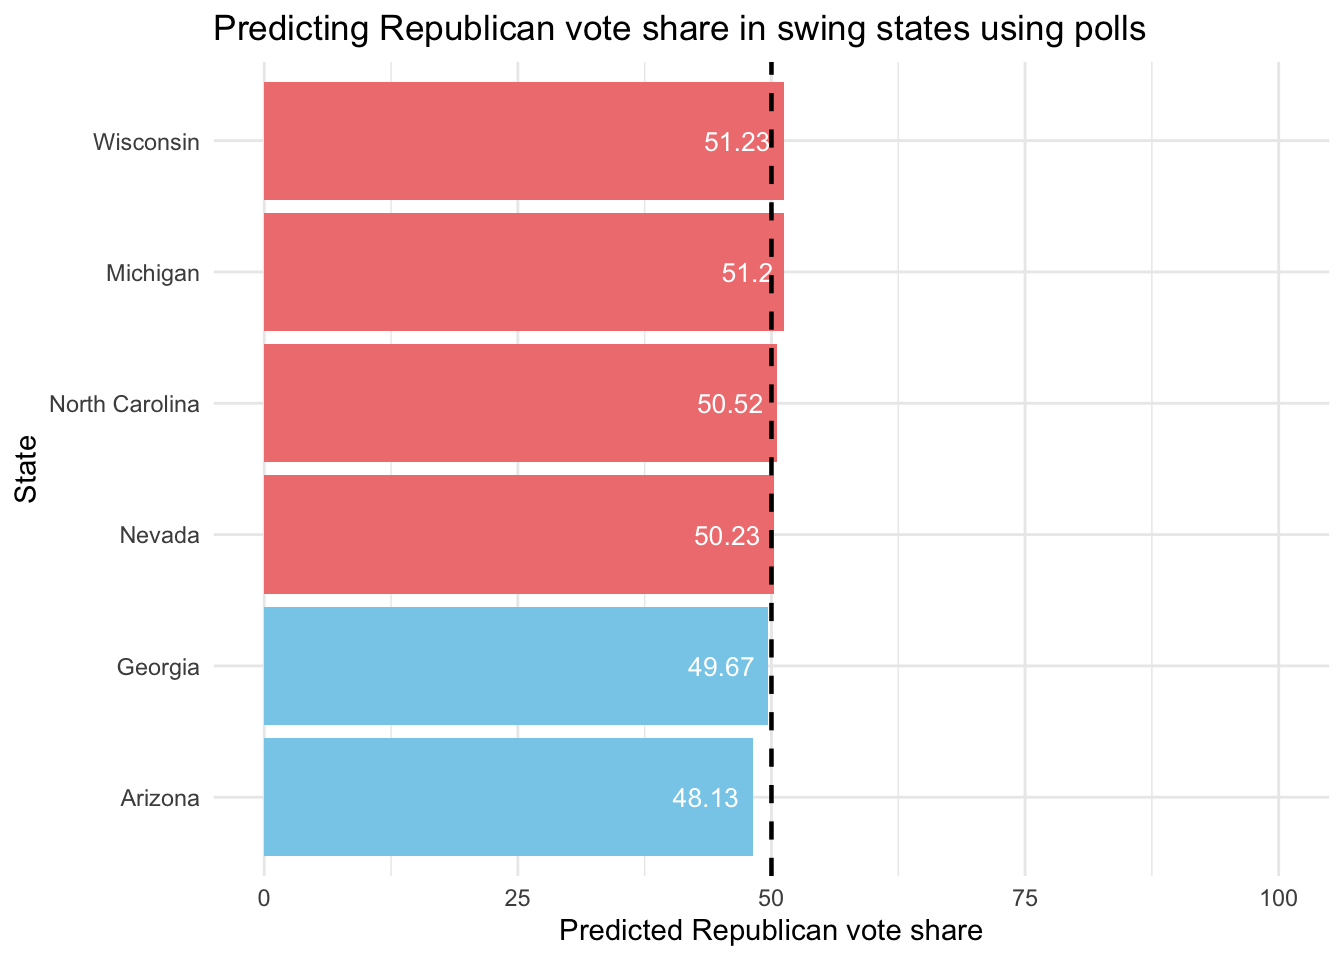
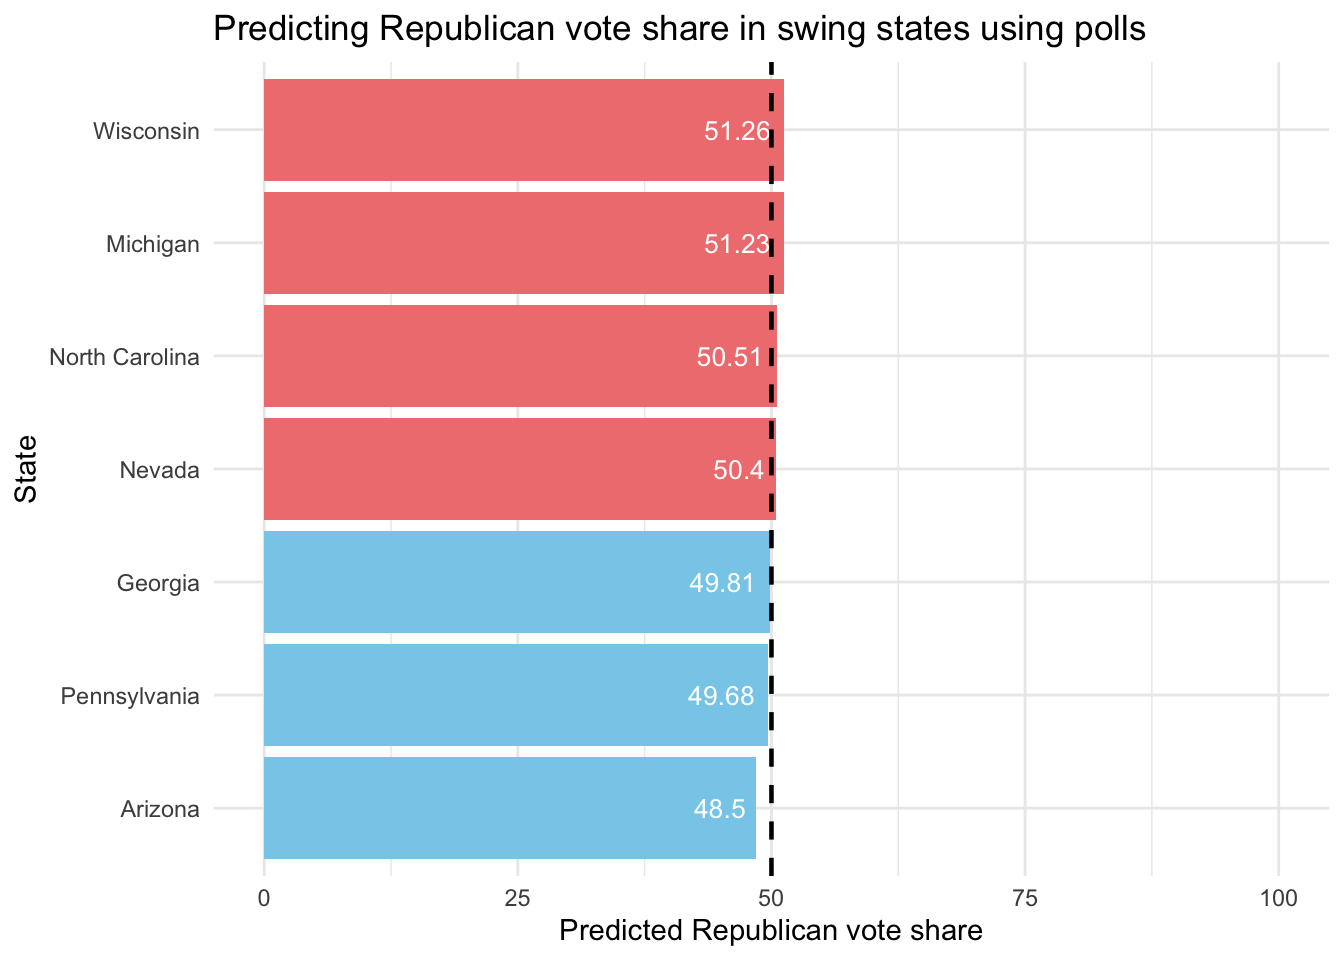
manual rebuild blogdown

diff --git a/public/post/2024/09/11/week-2/index.html b/public/post/2024/09/11/week-2/index.html
@@ -1,6 +1,6 @@
 <!DOCTYPE html>
 <html lang="en-us">
-  <head><script src="/usa-2024-election-prediction/livereload.js?mindelay=10&amp;v=2&amp;port=4321&amp;path=usa-2024-election-prediction/livereload" data-no-instant defer></script>
+  <head>
     <meta charset="utf-8">
     <meta name="viewport" content="width=device-width, initial-scale=1">
     <title>How economy influences elections | Jay&#39;s 2024 Election Prediction</title>
@@ -28,7 +28,7 @@
 <main>
 <p>The code for this page can be found <a href="https://github.com/jeqcho/usa-2024-election-prediction/blob/main/content/post/2024-09-11-week-2/index.Rmd">here</a>.</p>
 <p>One measure of the economy is the GDP growth. But do voters care more about the short-term GDP growth in the months leading up to the election, or do they judge the candidate based on the GDP growth <strong>throughout</strong> their term? We first investigate the Q2 GDP growth, which is by how much did the GDP grow in the second quarter (April, May, June) in the year of the election.</p>
-<img src="/usa-2024-election-prediction/post/2024/09/11/week-2/index_files/figure-html/unnamed-chunk-2-1.png" width="672" />
+<img src="https://chojeq.com/usa-2024-election-prediction/post/2024/09/11/week-2/index_files/figure-html/unnamed-chunk-2-1.png" width="672" />
 <p>In our best-fit lines above, we have removed 2020 as an outlier. The plot shows that there is a strong positive correlation between second quarter GDP growth and the incumbent&rsquo;s party vote share, particularly so when the candidate is also incumbent! This is fair, since the voters might not judge a new non-incumbent candidate with the current economy. Another interesting feature is that the best-fit line almost cross the center of 50% vote share for 0% growth. This suggests that the voters only reward the incumbent with more votes if the economy grows, and punishes when not, with no established baseline that the president is expected to perform. Let&rsquo;s look at the \(R^2\) to get an idea of how powerful is the prediction. Here&rsquo;s the \(R^2\) for non-incumbent candidates.</p>
 <pre><code class="language-r">summary(lm(pv2p~GDP_growth_quarterly,
            data=(d_inc_econ|&gt;filter(incumbent==FALSE))
@@ -44,7 +44,7 @@
 <pre><code>## [1] 0.4373633
 </code></pre>
 <p>It turns out that second quarter GDP growth can explain up to 44% of the change in vote shares across time! Now, how about long term GDP growth? Instead of looking at the GDP growth during the election year, let&rsquo;s compare the GDP growth from the start of their term to the end of the term.</p>
-<img src="/usa-2024-election-prediction/post/2024/09/11/week-2/index_files/figure-html/unnamed-chunk-5-1.png" width="672" />
+<img src="https://chojeq.com/usa-2024-election-prediction/post/2024/09/11/week-2/index_files/figure-html/unnamed-chunk-5-1.png" width="672" />
 <p>Here&rsquo;s the \(R^2\) for non-incumbents.</p>
 <pre><code class="language-r">summary(lm(pv2p~GDP_growth_termly,
            data=(d_inc_econ|&gt;filter(incumbent==FALSE))
@@ -61,7 +61,7 @@
 </code></pre>
 <p>Interestingly, the effect on non-incumbent candidates essentially flattens out. Voters do not judge new candidates based on how well the economy performed over the years. For incumbent candidates, we still see a strong positive correlation, but the explanatory power decreases from 44 to 29. This suggests that the short-term national economy has more influence on elections that the long-term trajectory. Another interesting feature is that the best-fit line crosses the 50% mark when the GDP growth is 29.6%. This means that in contrast to the second-quarter GDP growth, the voters impose a baseline performance for the president to sustain the growth of the economy.</p>
 <p>How about other measures of the economy like unemployment rate? Here we took seasonally-adjusted unemployment rate for each state and see if the vote share of the incumbet party in each state changes in response to the unemployment rate.</p>
-<img src="/usa-2024-election-prediction/post/2024/09/11/week-2/index_files/figure-html/unnamed-chunk-8-1.png" width="672" />
+<img src="https://chojeq.com/usa-2024-election-prediction/post/2024/09/11/week-2/index_files/figure-html/unnamed-chunk-8-1.png" width="672" />
 <p>Here&rsquo;s the \(R^2\) for non-incumbents.</p>
 <pre><code class="language-r">summary(lm(pv2p~q2_unrate_growth,
            data=(d_unrate_enc|&gt;filter(incumbent==FALSE))
@@ -78,7 +78,7 @@
 </code></pre>
 <p>The flat line and low <code>\(R^2\)</code> in both cases suggest that unemployment rate does not have a huge say on who becomes president. This suggest that voters do not associate employment with the president, since they might see more as a personal matter.</p>
 <p>Let&rsquo;s put all the economic indicators we have into a machine learning model and see which indicators are most effective in predicting the national vote share. We build a random forest model with 100 trees and look at the importance plot which shows how good each indicator is in predicting vote share.</p>
-<img src="/usa-2024-election-prediction/post/2024/09/11/week-2/index_files/figure-html/unnamed-chunk-15-1.png" width="672" />
+<img src="https://chojeq.com/usa-2024-election-prediction/post/2024/09/11/week-2/index_files/figure-html/unnamed-chunk-15-1.png" width="672" />
 <p>The random forest confirms our hypothesis and crowns the second quarter GDP growth as the strongest economic predictor of the election, followed by the S&amp;P 500 open and the incumbency effect. Let&rsquo;s use these three predictors to predict the next election and check the leave-one-out cross-validation (LOO-CV) error.</p>
 <pre><code>## [1] &quot;LOO-CV Mean Squared Error:  23.7289823344239&quot;
 </code></pre>

diff --git a/public/post/2024/09/08/past-us-elections/index.html b/public/post/2024/09/08/past-us-elections/index.html
@@ -1,6 +1,6 @@
 <!DOCTYPE html>
 <html lang="en-us">
-  <head><script src="/usa-2024-election-prediction/livereload.js?mindelay=10&amp;v=2&amp;port=4321&amp;path=usa-2024-election-prediction/livereload" data-no-instant defer></script>
+  <head>
     <meta charset="utf-8">
     <meta name="viewport" content="width=device-width, initial-scale=1">
     <title>Past US Elections | Jay&#39;s 2024 Election Prediction</title>
@@ -27,13 +27,13 @@
 
 <main>
 <p>We begin by examining recent US elections. (Code for this post is available on <a href="https://github.com/jeqcho/usa-2024-election-prediction/blob/main/content/post/2024-09-08-past-us-elections/index.Rmd">GitHub</a>). Here I have plotted the two-party vote share of the democratic party and the republican party since 1948 until 2020. The data is provided by the course staff. A dashed line is drawn at the 50% mark and two other dashed lines are drawn at a 5% interval. Notice that since 2000, the margin of winning is within 5% for the past 6 elections, while in fact in the past we see elections where the margins are more than 5% (like 1984 and 1968). Elections in the US are getting very close following <a href="https://academic.oup.com/book/27424/chapter-abstract/197266061?redirectedFrom=fulltext">Pendulum Politics</a>.</p>
-<img src="/usa-2024-election-prediction/post/2024/09/08/past-us-elections/index_files/figure-html/unnamed-chunk-3-1.png" width="672" />
+<img src="https://chojeq.com/usa-2024-election-prediction/post/2024/09/08/past-us-elections/index_files/figure-html/unnamed-chunk-3-1.png" width="672" />
 <p>We can look into more granularity by investigating the vote share in each state for the past three elections. It turns out that the coastal cities vote blue alongside Colorado and New Mexico, and this trend is stable over time. The heartland of Republicans are in the middle of the country forming a &ldquo;red wall&rdquo; in the middle from North Dakota to Texas.</p>
-<img src="/usa-2024-election-prediction/post/2024/09/08/past-us-elections/index_files/figure-html/unnamed-chunk-5-1.png" width="672" />
+<img src="https://chojeq.com/usa-2024-election-prediction/post/2024/09/08/past-us-elections/index_files/figure-html/unnamed-chunk-5-1.png" width="672" />
 <p>Let&rsquo;s explore deeper into how these vote shares change over time across states. Here we see an interesting pattern: in 2000 most states see an increase in Republican votes, while in 2004 voters start to vote Democratic back, and in 2008 we see the vote share of Democrats increase across the board. In 2012 which is Obama&rsquo;s re-election bid we see most states seeing an increase share of Republican votes. In 2016 the same situation in 2004 arises again where states are mixed in their increase of democratic or republican votes, and finally in 2020 we see an increase of democratic vote share across the board. It might be tempting to &ldquo;fill in the blanks&rdquo; and assume that in 2024 we will see an increase in Republican votes across all states, but 2024 has a very different situation (post-COVID, dropout incumbents, Trump) so it remains to be seen whether this cycle is stable or merely transient. It is also important to note that most states only see a single-digit movement in terms of vote share changes across elections.</p>
-<img src="/usa-2024-election-prediction/post/2024/09/08/past-us-elections/index_files/figure-html/unnamed-chunk-9-1.png" width="672" />
+<img src="https://chojeq.com/usa-2024-election-prediction/post/2024/09/08/past-us-elections/index_files/figure-html/unnamed-chunk-9-1.png" width="672" />
 <p>As we have seen that most states are stable in terms of vote share, the most interesting states will be those with a close margin. In those states known as swing states, both parties stand to win their electoral votes. But how do we know which states are swing states? Here I use an approach where I measure the standard deviation of two-party vote shares for the past three elections (2012, 2016, 2020) and then apply it to vote share of the losing party in 2020 by state to see which states has potential to be flipped. By this heuristic, it turns out that Arizona, Georgia, Wisconsin, Michigan, Pennsylvania, Iowa and Nevada has potential to flip in the next election based on this model. Note that this agreesly largely with the current consensus with the exception of North Carolina (which has a total share of 49.9% after adding in the standard deviation and ranks right after Nevada) and the addition of Iowa (which has a high standard deviation of 4%).</p>
-<img src="/usa-2024-election-prediction/post/2024/09/08/past-us-elections/index_files/figure-html/unnamed-chunk-11-1.png" width="672" />
+<img src="https://chojeq.com/usa-2024-election-prediction/post/2024/09/08/past-us-elections/index_files/figure-html/unnamed-chunk-11-1.png" width="672" />
 
 </main>
 

diff --git a/public/post/2024/09/23/week-3-polls/index.html b/public/post/2024/09/23/week-3-polls/index.html
@@ -3,7 +3,7 @@
   <head><script src="/usa-2024-election-prediction/livereload.js?mindelay=10&amp;v=2&amp;port=4321&amp;path=usa-2024-election-prediction/livereload" data-no-instant defer></script>
     <meta charset="utf-8">
     <meta name="viewport" content="width=device-width, initial-scale=1">
-    <title>Week 3: Polls | Jay&#39;s 2024 Election Prediction</title>
+    <title>Polls | Jay&#39;s 2024 Election Prediction</title>
     <link rel="stylesheet" href="/usa-2024-election-prediction/css/style.css" />
     <link rel="stylesheet" href="/usa-2024-election-prediction/css/fonts.css" />
     
@@ -20,12 +20,13 @@
     </nav>
 
 <div class="article-meta">
-<h1><span class="title">Week 3: Polls</span></h1>
+<h1><span class="title">Polls</span></h1>
 <h2 class="author">Jay Chooi</h2>
 <h2 class="date">2024/09/23</h2>
 </div>
 
 <main>
+<p>Code for this post can be found <a href="https://github.com/jeqcho/usa-2024-election-prediction/tree/main/content/post/2024-09-23-week-3-polls">here</a>.</p>
 <h2 id="today-we-are-getting-more-polls-than-before">Today, we are getting more polls than before</h2>
 <p>The number of polls conducted nationwide and in each state has increased across election cycles. In the plot below, we tallied the number of polls who were completed in August of each election cycle.</p>
 <img src="/usa-2024-election-prediction/post/2024/09/23/week-3-polls/index_files/figure-html/unnamed-chunk-3-1.png" width="672" />
@@ -40,13 +41,14 @@ The number of nationwide polls increased 60\% from 525 in 2016 to 843 in 2024 (a
 <h2 id="predicting-the-2024-election-using-polls">Predicting the 2024 election using polls</h2>
 <p>Here we again used a random forest to predict the vote share of Trump in 2024. We initialized with 500 trees and trained it to predict state-level popular vote based on the following features: year, state, poll approval at 7 weeks before the election, 10 weeks and 15 weeks.</p>
 <p>We chose 7 weeks because it is the most current data we have for now as of 23 September. 15 weeks was chosen because Biden droppped out 15 weeks before the election, and it would not be accurate to predict the vote share involving Harris using poll approvals more than 15 weeks ago when she wasn&rsquo;t running. Here are the results.</p>
-<pre><code>## Warning: Using `size` aesthetic for lines was deprecated in ggplot2 3.4.0.
-## ℹ Please use `linewidth` instead.
-## This warning is displayed once every 8 hours.
-## Call `lifecycle::last_lifecycle_warnings()` to see where this warning was
-## generated.
-</code></pre>
 <img src="/usa-2024-election-prediction/post/2024/09/23/week-3-polls/index_files/figure-html/unnamed-chunk-12-1.png" width="672" />
+<p>Surprisingly, the random forest predicts that Democrats will win Georgia, Pennsylvania and Arizona, while Republicans will win Wisconsin, Michigan, North Carolina and Nevada. This is in contrast with betting markets, which forecasts the exact opposite except for Pennsylvania and Nevada.</p>
+<p>Let&rsquo;s take a closer look at the model through the RMSE of Leave-One-Out Cross-Validation.</p>
+<pre><code>## [1] &quot;LOO-CV Mean Squared Error:  10.9223005760208&quot;
+</code></pre>
+<pre><code>## [1] &quot;LOO-CV Root Mean Squared Error:  3.30489040302712&quot;
+</code></pre>
+<p>The RMSE is 3.3. Using this margin of error, our forecasts on the state winers is not certain to hold true, since all our forecasts gave vote shares where the 50% mark is within the margin of error. We simply do not have any certainty on the swing states right now.</p>
 
 </main>
 

diff --git a/public/post/index.html b/public/post/index.html
@@ -1,6 +1,6 @@
 <!DOCTYPE html>
 <html lang="en-us">
-  <head><script src="/usa-2024-election-prediction/livereload.js?mindelay=10&amp;v=2&amp;port=4321&amp;path=usa-2024-election-prediction/livereload" data-no-instant defer></script>
+  <head>
     <meta charset="utf-8">
     <meta name="viewport" content="width=device-width, initial-scale=1">
     <title>Posts | Jay&#39;s 2024 Election Prediction</title>
@@ -32,7 +32,7 @@
   
   <li>
     <span class="date">2024/09/23</span>
-    <a href="/usa-2024-election-prediction/post/2024/09/23/week-3-polls/">Week 3: Polls</a>
+    <a href="/usa-2024-election-prediction/post/2024/09/23/week-3-polls/">Polls</a>
   </li>
   
   <li>

diff --git a/public/404.html b/public/404.html
@@ -1,6 +1,6 @@
 <!DOCTYPE html>
 <html lang="en-us">
-  <head><script src="/usa-2024-election-prediction/livereload.js?mindelay=10&amp;v=2&amp;port=4321&amp;path=usa-2024-election-prediction/livereload" data-no-instant defer></script>
+  <head>
     <meta charset="utf-8">
     <meta name="viewport" content="width=device-width, initial-scale=1">
     <title>404 Page not found | Jay&#39;s 2024 Election Prediction</title>

diff --git a/public/about/index.html b/public/about/index.html
@@ -1,6 +1,6 @@
 <!DOCTYPE html>
 <html lang="en-us">
-  <head><script src="/usa-2024-election-prediction/livereload.js?mindelay=10&amp;v=2&amp;port=4321&amp;path=usa-2024-election-prediction/livereload" data-no-instant defer></script>
+  <head>
     <meta charset="utf-8">
     <meta name="viewport" content="width=device-width, initial-scale=1">
     <title>About Hugo XMin | Jay&#39;s 2024 Election Prediction</title>

diff --git a/public/categories/index.html b/public/categories/index.html
@@ -1,6 +1,6 @@
 <!DOCTYPE html>
 <html lang="en-us">
-  <head><script src="/usa-2024-election-prediction/livereload.js?mindelay=10&amp;v=2&amp;port=4321&amp;path=usa-2024-election-prediction/livereload" data-no-instant defer></script>
+  <head>
     <meta charset="utf-8">
     <meta name="viewport" content="width=device-width, initial-scale=1">
     <title>Categories | Jay&#39;s 2024 Election Prediction</title>

diff --git a/public/tags/index.html b/public/tags/index.html
@@ -1,6 +1,6 @@
 <!DOCTYPE html>
 <html lang="en-us">
-  <head><script src="/usa-2024-election-prediction/livereload.js?mindelay=10&amp;v=2&amp;port=4321&amp;path=usa-2024-election-prediction/livereload" data-no-instant defer></script>
+  <head>
     <meta charset="utf-8">
     <meta name="viewport" content="width=device-width, initial-scale=1">
     <title>Tags | Jay&#39;s 2024 Election Prediction</title>

diff --git a/public/index.html b/public/index.html
@@ -35,7 +35,7 @@
   
   <li>
     <span class="date">2024/09/23</span>
-    <a href="/usa-2024-election-prediction/post/2024/09/23/week-3-polls/">Week 3: Polls</a>
+    <a href="/usa-2024-election-prediction/post/2024/09/23/week-3-polls/">Polls</a>
   </li>
   
   <li>

diff --git a/content/post/2024-09-23-week-3-polls/index.md b/content/post/2024-09-23-week-3-polls/index.md
@@ -1,11 +1,13 @@
 ---
-title: 'Week 3: Polls'
+title: 'Polls'
 author: Jay Chooi
 date: '2024-09-23'
 slug: week-3-polls
 categories: []
 tags: []
 ---
+
+Code for this post can be found [here](https://github.com/jeqcho/usa-2024-election-prediction/tree/main/content/post/2024-09-23-week-3-polls).
 
 ## Today, we are getting more polls than before
 
@@ -53,17 +55,19 @@ We chose 7 weeks because it is the most current data we have for now as of 23 Se
 
 
 
-
-```
-## Warning: Using `size` aesthetic for lines was deprecated in ggplot2 3.4.0.
-## ℹ Please use `linewidth` instead.
-## This warning is displayed once every 8 hours.
-## Call `lifecycle::last_lifecycle_warnings()` to see where this warning was
-## generated.
-```
-
 <img src="{{< blogdown/postref >}}index_files/figure-html/unnamed-chunk-12-1.png" width="672" />
 
+Surprisingly, the random forest predicts that Democrats will win Georgia, Pennsylvania and Arizona, while Republicans will win Wisconsin, Michigan, North Carolina and Nevada. This is in contrast with betting markets, which forecasts the exact opposite except for Pennsylvania and Nevada.
+
+Let's take a closer look at the model through the RMSE of Leave-One-Out Cross-Validation.
 
 
+```
+## [1] "LOO-CV Mean Squared Error:  10.9223005760208"
+```
 
+```
+## [1] "LOO-CV Root Mean Squared Error:  3.30489040302712"
+```
+
+The RMSE is 3.3. Using this margin of error, our forecasts on the state winers is not certain to hold true, since all our forecasts gave vote shares where the 50\% mark is within the margin of error. We simply do not have any certainty on the swing states right now.
